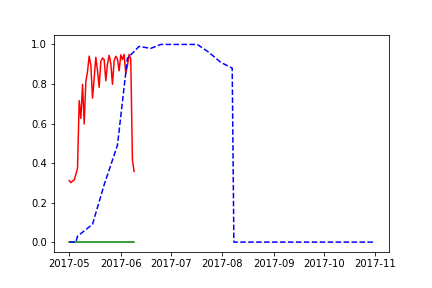
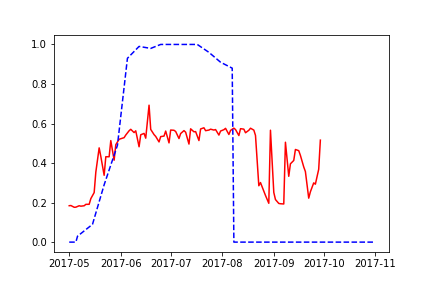
A few changes to visualiser; in parallel to other changes, so in new branch

diff --git a/visualize.py b/visualize.py
@@ -7,6 +7,7 @@ from joblib import load
 import reader
 import pixelPairs
 import getSAR
+import getNDVI
 import xlrd
 import datetime
 
@@ -62,28 +63,29 @@ def read_pixel_data(field_no):
     
     arrays = reader.parseKML("2017_polygons.kml")
     array = arrays[field_no]
-    data, l = getSAR.arrayToSAR(array, startDate, endDate)
+    data, dates = getSAR.arrayToSAR(array, startDate, endDate, returnDates=True)
+    #ndvi_data, ndvi_dates = getNDVI.arrayToNDVI(array, startDate, endDate, returnDates=True)
     
-    res_date, res_px = ([], [])
-    start_day = datetime.date(2017,5,1)
-    day_delta = datetime.timedelta(days=1)
+    res_date, res_px, res_ndvi, res_ndvi_dates = ([], [], [], [])
     for i in range(0, len(data), 2):
-        # NDVI, SAR
+        # SAR
         tmp = np.dstack((data[i][0], data[i + 1][0]))
         tmp = tmp.reshape(-1, tmp.shape[-1])
         tmp = tmp[np.all(tmp != 0, axis=1)]
         res_px.append(tmp)
-        res_date.append(f'{(start_day + (i/2)*day_delta):%B %d, %Y}')
-        #res_date.append(data[i][1][5:])
-
-    return res_date, res_px
-
+        res_date.append(f'{(dates[i//2]):%B %d, %Y}')
         
+    #for i in range(len(ndvi_data)):
+    #   tmp = np.array(ndvi_data[i][0])
+    #   tmp = tmp.flatten() 
+    #   tmp = tmp[tmp != 0]
+    #   res_ndvi.append(np.mean(tmp))
+    #   res_ndvi_dates.append(f'{(ndvi_dates[i//2]):%B %d, %Y}')
 
+    return res_date, res_px, res_ndvi_dates, res_ndvi
 
 def visualize(field_no, regr_model):
-    date, px_pairs = read_pixel_data(field_no)
-    ndvi_mes = np.array([mean(day[:,0]) for day in px_pairs])
+    date, px_pairs, ndvi_dates, ndvi_data = read_pixel_data(field_no)
     
     ndvi_pred = np.array([])
     for day in px_pairs:
@@ -95,10 +97,10 @@ def visualize(field_no, regr_model):
         ndvi_pred = np.append(ndvi_pred, mean(y))
     
     plt_date = dates.datestr2num(date)
-    ndvi_mes = 0.18 * np.exp(2.9 * ndvi_mes)
-    ndvi_pred = 0.18 * np.exp(2.9 * ndvi_pred)
-    plt.plot_date(plt_date, ndvi_mes, xdate=True, fmt="g-")
-    plt.plot_date(plt_date, ndvi_pred, xdate=True, fmt="r-")
+    #ndvi_mes = 0.18 * np.exp(2.9 * ndvi_mes)
+    #ndvi_pred = 0.18 * np.exp(2.9 * ndvi_pred)
+    #plt.plot_date(dates.datestr2num(ndvi_dates), ndvi_data, xdate=True, fmt="g-")
+    plt.plot_date(sorted(plt_date), [x for _,x in sorted(zip(plt_date,ndvi_pred))], xdate=True, fmt="r-")
     
 
     date, ndvi = read_ground_truth(field_no)

diff --git a/getNDVI.py b/getNDVI.py
@@ -5,13 +5,14 @@ import cv2
 import rasteriser
 import disp_multiple_images
 import common 
+from datetime import datetime
 
 # perform any calculation on the image collection here
 def getNDVI(img):
-    ndvi = ee.Image(img.normalizedDifference(['B8', 'B4'])).rename(["ndvi"])
+    ndvi = ee.Image(img.normalizedDifference(['B8', 'B4'])).rename("ndvi")
     return ndvi
  
-def arrayToNDVI(array, startDate, EndDate):
+def arrayToNDVI(array, startDate, EndDate,returnDates=False):
     ee.Initialize()
     
     # Define the roi
@@ -20,21 +21,27 @@ def arrayToNDVI(array, startDate, EndDate):
     # query
     collection = ee.ImageCollection("COPERNICUS/S2").filterBounds(area)\
                                         .filterDate(startDate, EndDate)\
-                                        .filterMetadata("CLOUDY_PIXEL_PERCENTAGE","less_than",10)\
                                         .select(['B8', 'B4'])
     
     print("Number of images: ",collection.size().getInfo())
 
     # map over the image collection
-    myCollection  = collection.map(getNDVI)
+    myCollection  = collection #collection.map(getNDVI)
 
     # get all images
     l = myCollection.toList(collection.size().getInfo())
     arr = []
+    dates = []
     for i in range(l.size().getInfo()):
         try:
-            arr.append(common.LatLonImg(ee.Image(l.get(i)), area)+(i,))
+            img = ee.Image(l.get(i))
+            arr.append(common.LatLonImg(ee.Image(img.normalizedDifference(['B8', 'B4']).rename("ndvi")), area)+(i,))
+            if returnDates:
+                dates.append(datetime.utcfromtimestamp(ee.Date(img.get('system:time_start')).millis().getInfo() / 1000))
         except ee.ee_exception.EEException:
             pass
+
+    if returnDates:
+        return rasteriser.rasteriseImages(arr)[0], dates
     return rasteriser.rasteriseImages(arr)
 

diff --git a/getSAR.py b/getSAR.py
@@ -29,7 +29,7 @@ def arrayToSAR(array, startDate, EndDate, returnDates=False):
     myCollection = collection.map(getSAR)
 
     # get all images
-    l = myCollection.toList(min(40, collection.size().getInfo()))
+    l = myCollection.toList(collection.size().getInfo())
 
     arr = []
     dates = []
